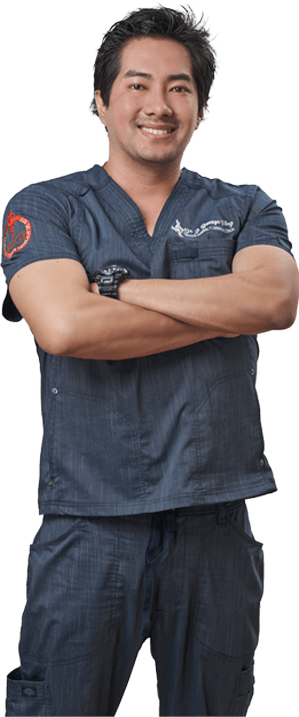
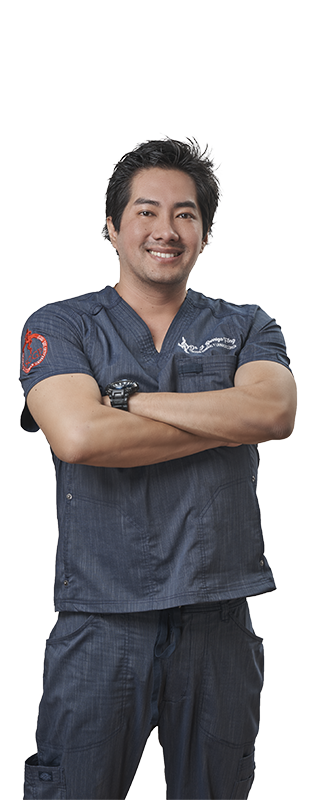
update img slider

diff --git a/plantillas/slider/index.php b/plantillas/slider/index.php
@@ -27,7 +27,7 @@
                           </div>
                           <div class="content-slider-img">
                               <img loading="lazy" src="<?php echo RUTA_IMG?>home/slider/img1.png" draggable="false"
-                                  class="" height="717" />
+                                  class="" height="800" />
                           </div>
                       </div>
                   </div>
@@ -52,7 +52,7 @@
                           </div>
                           <div class="content-slider-img">
                               <img loading="lazy" src="<?php echo RUTA_IMG?>home/slider/img2.png" draggable="false"
-                                  class="" height="717" />
+                                  class="" height="800" />
                           </div>
                       </div>
                   </div>
@@ -77,7 +77,7 @@
                           </div>
                           <div class="content-slider-img">
                               <img loading="lazy" src="<?php echo RUTA_IMG?>home/slider/img3.png" draggable="false"
-                                  class="" height="717" />
+                                  class="" height="800" />
                           </div>
                       </div>
                   </div>
@@ -103,7 +103,7 @@
                           </div>
                           <div class="content-slider-img">
                               <img loading="lazy" src="<?php echo RUTA_IMG?>home/slider/img4.png" draggable="false"
-                                  class="" height="717" />
+                                  class="" height="800" />
                           </div>
                       </div>
                   </div>

diff --git a/app/config.inc.php b/app/config.inc.php
@@ -7,9 +7,9 @@
 
 //rutas de la web
 //https://barrigafong.herokuapp.com/
-//http://localhost/barrigafong
+//http://localhost/barrigafong/
 
-define("SERVIDOR", "https://barrigafong.herokuapp.com/");
+define("SERVIDOR", "http://localhost/barrigafong/");
 // define("RUTA_SERVICIOS", SERVIDOR."servicios");
 define("RUTA_CONTACTO", SERVIDOR."contacto");
 define("RUTA_LOCALES", SERVIDOR."locales");
